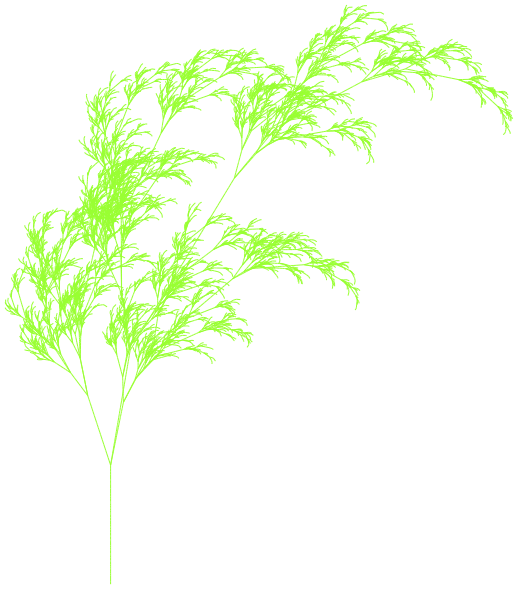
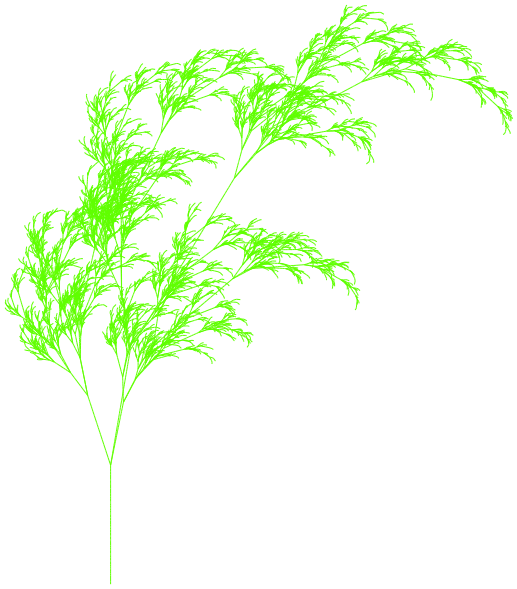
benchmarks

diff --git a/lsystem_test.go b/lsystem_test.go
@@ -18,7 +18,15 @@ func equals(a, b []string) bool {
 	return true
 }
 
-func TestLindenmayer(t *testing.T) {
+func TestFunction(t *testing.T) {
+	testLindenmayer(t, lindenmayer)
+}
+
+func TestChannel(t *testing.T) {
+	testLindenmayer(t, coliner)
+}
+
+func testLindenmayer(t *testing.T, f func([]string, map[string][]string, int) []string) {
 	tests := []struct {
 		Rules      map[string][]string
 		Start      []string
@@ -60,8 +68,29 @@ func TestLindenmayer(t *testing.T) {
 	}
 
 	for _, c := range tests {
-		if r := lindenmayer(c.Start, c.Rules, c.Iterations); !equals(r, c.Expected) {
-			t.Errorf("lindenmayer(%v, %v, %v) != %v (got %v)", c.Start, c.Rules, c.Iterations, c.Expected, r)
+		if r := f(c.Start, c.Rules, c.Iterations); !equals(r, c.Expected) {
+			t.Errorf("f(%v, %v, %v) != %v (got %v)", c.Start, c.Rules, c.Iterations, c.Expected, r)
 		}
+	}
+}
+
+func BenchmarkFunction(b *testing.B) {
+	benchmarkLindenmayer(b, lindenmayer)
+}
+
+func BenchmarkChannel(b *testing.B) {
+	benchmarkLindenmayer(b, coliner)
+}
+
+func benchmarkLindenmayer(b *testing.B, f func([]string, map[string][]string, int) []string) {
+	rules := map[string][]string{
+		"A": {"A", "B"},
+		"B": {"A"},
+	}
+	start := []string{"A"}
+
+	b.ResetTimer()
+	for i := 0; i < b.N; i++ {
+		f(start, rules, 10)
 	}
 }

diff --git a/lsystem.go b/lsystem.go
@@ -1,6 +1,7 @@
 package main
 
 // http://en.wikipedia.org/wiki/L-system
+// iterative function
 func lindenmayer(start []string, rules map[string][]string, iterations int) []string {
 	if iterations == 0 {
 		return start
@@ -17,6 +18,47 @@ func lindenmayer(start []string, rules map[string][]string, iterations int) []st
 
 	if iterations--; iterations > 0 {
 		return lindenmayer(result, rules, iterations)
+	}
+
+	return result
+}
+
+// concurrentlindenmayer -> conlindenmayer -> conlinmayer -> coliner!
+// channel iterations
+func coliner(start []string, rules map[string][]string, iterations int) []string {
+	replace := func(in chan string) chan string {
+		out := make(chan string)
+		go func() {
+			defer close(out)
+			for s := range in {
+				r, ok := rules[s]
+				if !ok {
+					out <- s
+					continue
+				}
+				for _, c := range r {
+					out <- c
+				}
+			}
+		}()
+		return out
+	}
+
+	c := make(chan string)
+	go func(in chan string) {
+		for _, s := range start {
+			in <- s
+		}
+		close(in)
+	}(c)
+
+	for i := 0; i < iterations; i++ {
+		c = replace(c)
+	}
+
+	result := []string{}
+	for s := range c {
+		result = append(result, s)
 	}
 
 	return result

diff --git a/main.go b/main.go
@@ -14,7 +14,7 @@ import (
 func main() {
 	segmentlength := 4.0
 
-	green := color.RGBA{0x99, 0xFF, 0x33, 0xFF}
+	green := color.RGBA{0x60, 0xFF, 0x00, 0xFF}
 
 	path := lindenmayer([]string{"X"}, map[string][]string{
 		"X": {"F", "-", "[", "[", "X", "]", "+", "X", "]", "+", "F", "[", "+", "F", "X", "]", "-", "X"},

diff --git a/README.md b/README.md
@@ -1,3 +1,3 @@
-### A Lindenmayer system visualized by a turtle.
+### A [Lindenmayer system](http://en.wikipedia.org/wiki/L-system) visualized by a turtle.
 
 ![a tree](https://github.com/der-antikeks/lindenturtle/raw/master/images/plant.png)
